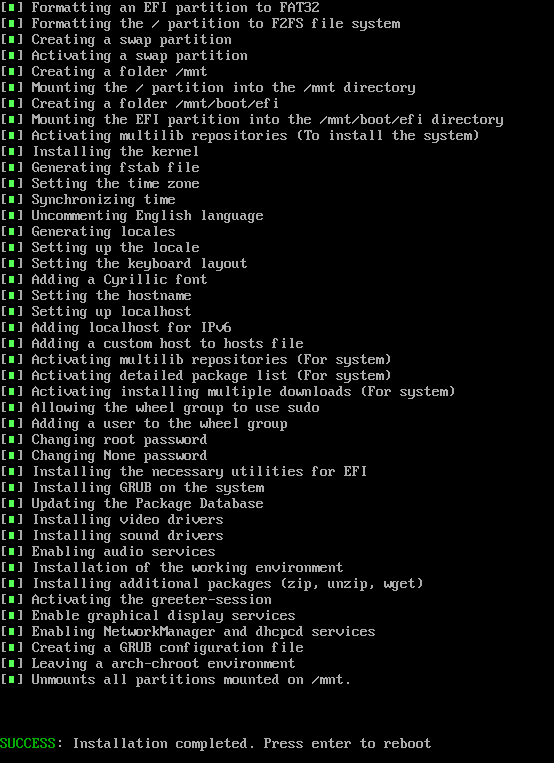
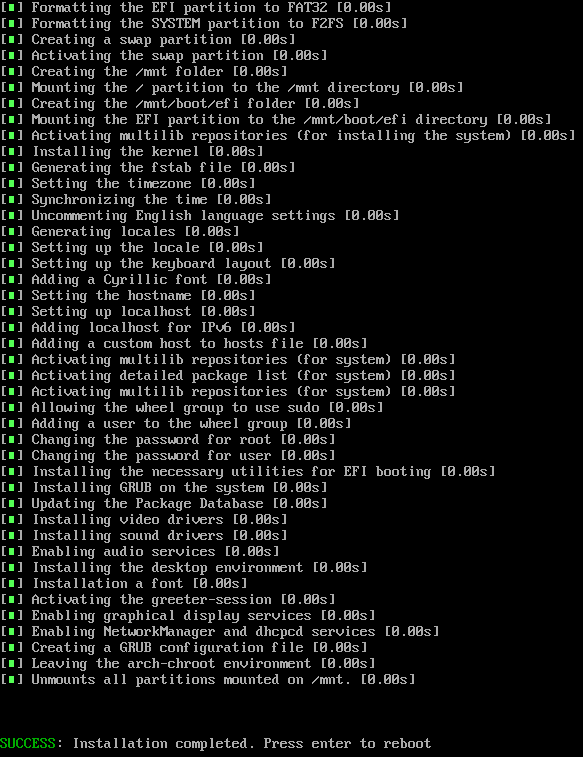
Added command execution timer

diff --git a/functions/functions.py b/functions/functions.py
@@ -3,12 +3,17 @@ import subprocess
 import sys
 import random
 import string
+import time
 
 from colors.colors import Colors
 from status.status import Status
 
 def clear_screen():
     os.system('clear')
+
+def terminate_installation():
+    print(f'\n{Colors.bold}{Colors.red}CRITICAL{Colors.reset}: Installation aborted.')
+    sys.exit()
 
 def execute_command(
     command,
@@ -43,10 +48,6 @@ def validate_choice(
             print(f'{Colors.red}ERROR{Colors.reset}: Invalid choice. Please try again.')
 
     return choice
-
-def terminate_installation():
-    print(f'\n{Colors.bold}{Colors.red}CRITICAL{Colors.reset}: Installation aborted.')
-    sys.exit()
 
 def validate_input(
     prompt,
@@ -147,25 +148,33 @@ def print_progress(description):
     message = f'{Status.PROGRESS} {description}'
     print(message, end='', flush=True)
 
-def print_result(return_code, description):
+def print_result(
+    return_code,
+    description,
+    end_time
+):
     if return_code == 0:
         message = f'{Status.OK} {description}'
     else:
         message = f'{Status.ERROR} {description}'
 
-    print(f'\r{message}')
+    print(f'\r{message} [{end_time:.2f}s]')
 
 def execute_and_process_command(
     command,
     description
 ):
+    start_time = time.time()
     print_progress(description)
 
     try:
         with open('installer.log', 'a') as log_file:
             subprocess.run(command, shell=True, check=True, stdout=log_file, stderr=subprocess.DEVNULL)
     except subprocess.CalledProcessError:
-        print_result(1, description)
+        end_time = time.time()
+        print_result(1, description, (end_time - start_time))
     else:
-        print_result(0, description)
-        return True
+        end_time = time.time()
+
+    print_result(0, description, (end_time - start_time))
+    return True
